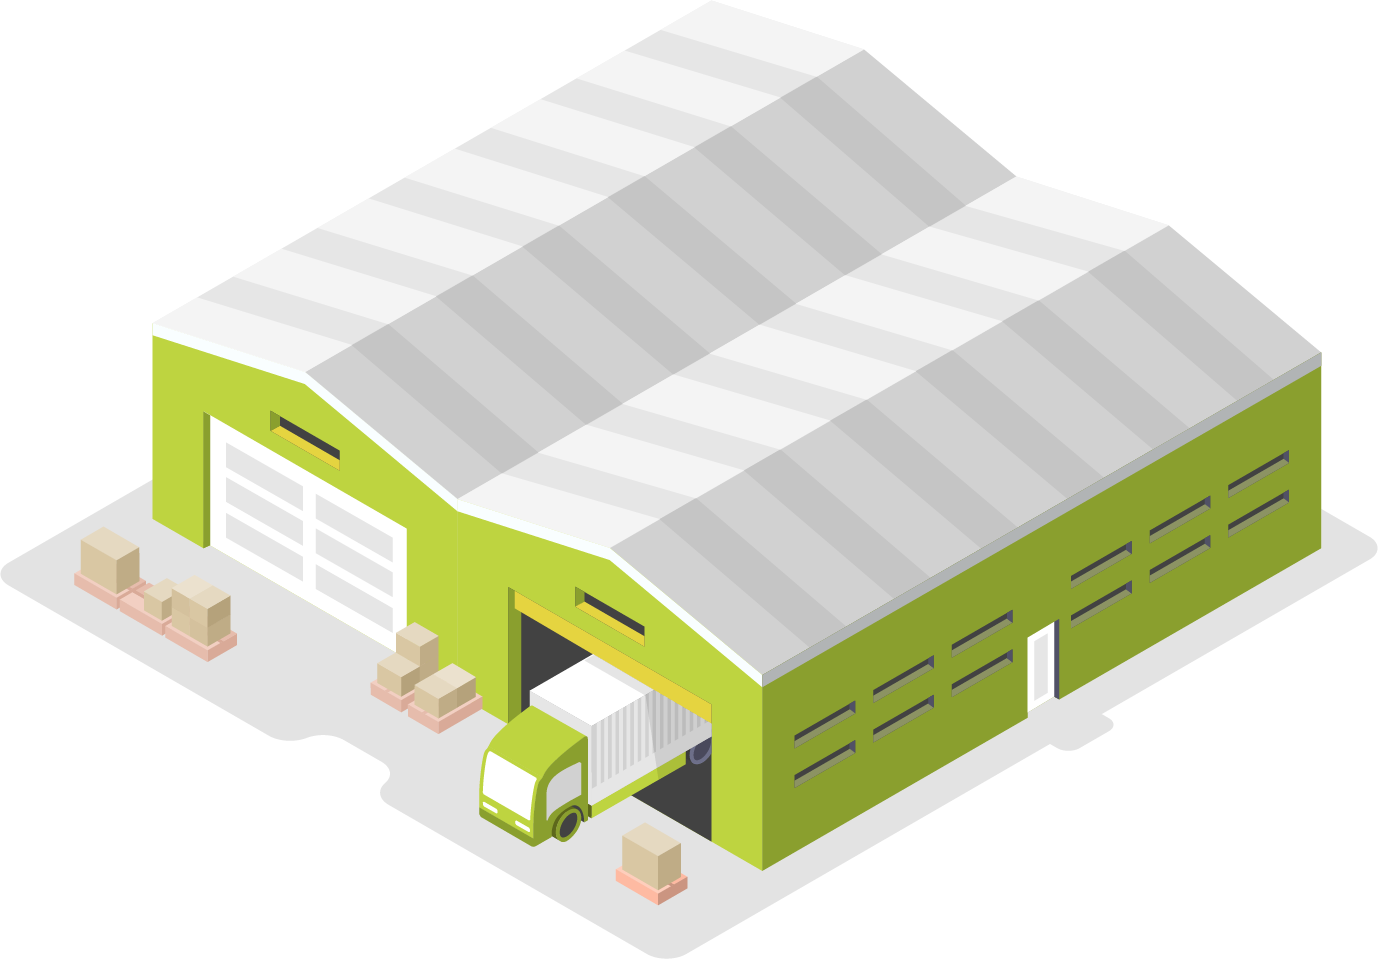
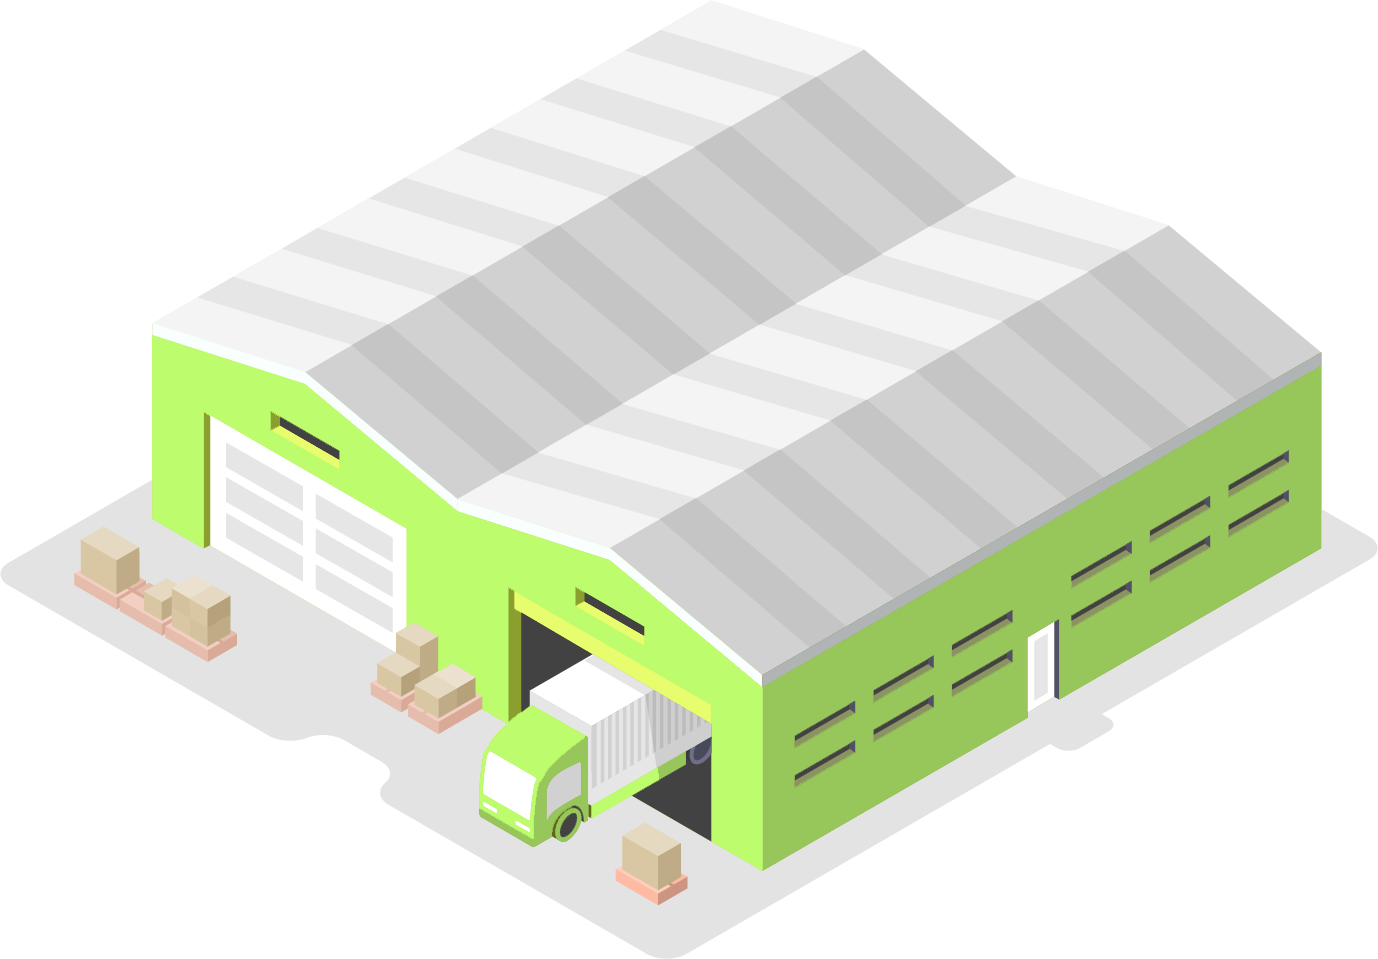
feat(color): updates pngs with new primary color

Changed region(s): [[0.0936, 0.3326, 0.9673, 0.9072]]

diff --git a/apps/marketing/src/components/common/SectionHeader/SectionHeader.tsx b/apps/marketing/src/components/common/SectionHeader/SectionHeader.tsx
@@ -15,13 +15,23 @@ const SectionHeader = ({ pretitle, title, subtitle }: SectionHeaderProps) => {
         </span>
       )}
 
-      <h2 className="text-center text-2xl sm:text-3xl md:text-4xl font-bold text-gray-800 font-heading mt-2">
-        {title}
-      </h2>
+      {title && (
+        <>
+          <br />
+          <h2 className="text-center text-2xl sm:text-3xl md:text-4xl font-bold text-gray-800 font-heading">
+            {title}
+          </h2>
+        </>
+      )}
+
       {subtitle && (
-        <p className="mt-4 text sm:text-lg md:text-xl text-gray-600 max-w-2xl text-center">
-          {subtitle}
-        </p>
+        <>
+          <br />
+          <br />
+          <p className="text sm:text-lg md:text-xl text-gray-600 max-w-2xl text-center">
+            {subtitle}
+          </p>
+        </>
       )}
     </div>
   )

diff --git a/apps/marketing/src/components/ui/inputs/InlineTextForm/InlineTextForm.tsx b/apps/marketing/src/components/ui/inputs/InlineTextForm/InlineTextForm.tsx
@@ -70,7 +70,7 @@ function InlineTextForm<T extends string>(props: InlineTextFormProps<T>) {
             id={props.name}
             autoComplete={props.autoComplete}
             placeholder={props.placeholder}
-            className="appearance-none min-w-0 w-full bg-white border border-gray-300 rounded-md shadow-sm py-2 px-4 text-base text-gray-900 placeholder-gray-500 focus:outline-none focus:ring-indigo-500 focus:border-indigo-500 focus:placeholder-gray-400"
+            className="appearance-none min-w-0 w-full bg-white border border-gray-300 rounded-2xl shadow-sm py-2 px-4 text-base text-gray-900 placeholder-gray-500 focus:outline-none focus:ring-indigo-500 focus:border-indigo-500 focus:placeholder-gray-400"
           />
           <div className="mt-3 sm:mt-0 sm:ml-3 sm:flex-shrink-0">
             <Button

diff --git a/apps/marketing/src/components/pages/CustomerMorningBrewPage/StatsSection.tsx b/apps/marketing/src/components/pages/CustomerMorningBrewPage/StatsSection.tsx
@@ -1,3 +1,4 @@
+import { LinkInline } from '@components/ui'
 import routes from '@lib/routes'
 import Link from 'next/link'
 import React from 'react'
@@ -27,11 +28,9 @@ const StatsSection = () => {
         ))}
       </dl>
       <div className="mt-10">
-        <Link href={routes.internal.getStarted.href()}>
-          <a className="font-medium text-primary">
-            Learn how to level up your swag &nbsp; &rarr;
-          </a>
-        </Link>
+        <LinkInline href={routes.internal.getStarted.href()}>
+          Learn how to level up your swag &nbsp; &rarr;
+        </LinkInline>
       </div>
     </div>
   )

diff --git a/apps/marketing/src/components/ui/Dialog/Dialog.tsx b/apps/marketing/src/components/ui/Dialog/Dialog.tsx
@@ -97,8 +97,9 @@ const Dialog = (props: DialogProps) => {
                     props.className,
                   )}
                 >
-                  {Icon}
-                  {Icon && <div className="mt-3 sm:mt-5" />}
+                  {Icon ? (
+                    <DialogSectionPadding>{Icon}</DialogSectionPadding>
+                  ) : null}
 
                   {Title && (
                     <DialogSectionPadding>{Title}</DialogSectionPadding>

diff --git a/apps/marketing/src/components/pages/DistributionPage/DistributionPageAdvantages.tsx b/apps/marketing/src/components/pages/DistributionPage/DistributionPageAdvantages.tsx
@@ -9,7 +9,7 @@ const DistributionPageAdvantages = (props: Props) => {
   return (
     <Section gutter="lg">
       <SectionHeader
-        pretitle="why 3rd party logistics?"
+        pretitle="Why 3rd party logistics?"
         title="Scale effortlessly, zero burden"
         subtitle="We enable brands to scale their eCommerce and access cutting-edge fulfillment services at a completely transparent, industry-low rate."
       />

diff --git a/apps/marketing/src/components/pages/HomePage/HomePageCustomerLogos.tsx b/apps/marketing/src/components/pages/HomePage/HomePageCustomerLogos.tsx
@@ -10,7 +10,7 @@ import { InfiniteLooper, Section } from '@components/common'
 
 const BrandLogo = (props: { image: StaticImageData; alt: string }) => {
   return (
-    <div className="relative w-full h-[100px] min-w-[100px] mx-4 sm:mx-6">
+    <div className="relative w-full h-[120px] min-w-[120px] mx-4 sm:mx-6">
       <Image
         src={props.image.src}
         alt={props.alt}

diff --git a/apps/marketing/src/components/common/SubscribeInline/SubscribeInline.tsx b/apps/marketing/src/components/common/SubscribeInline/SubscribeInline.tsx
@@ -48,7 +48,7 @@ const SubscribeInline = (props: SubscribeInlineProps) => {
         type="email"
         name="email"
         autoComplete="email"
-        variant="primary"
+        variant="secondary"
         className={cx(props.className)}
         placeholder="Enter your email"
         defaultValue={props.defaultValue}
